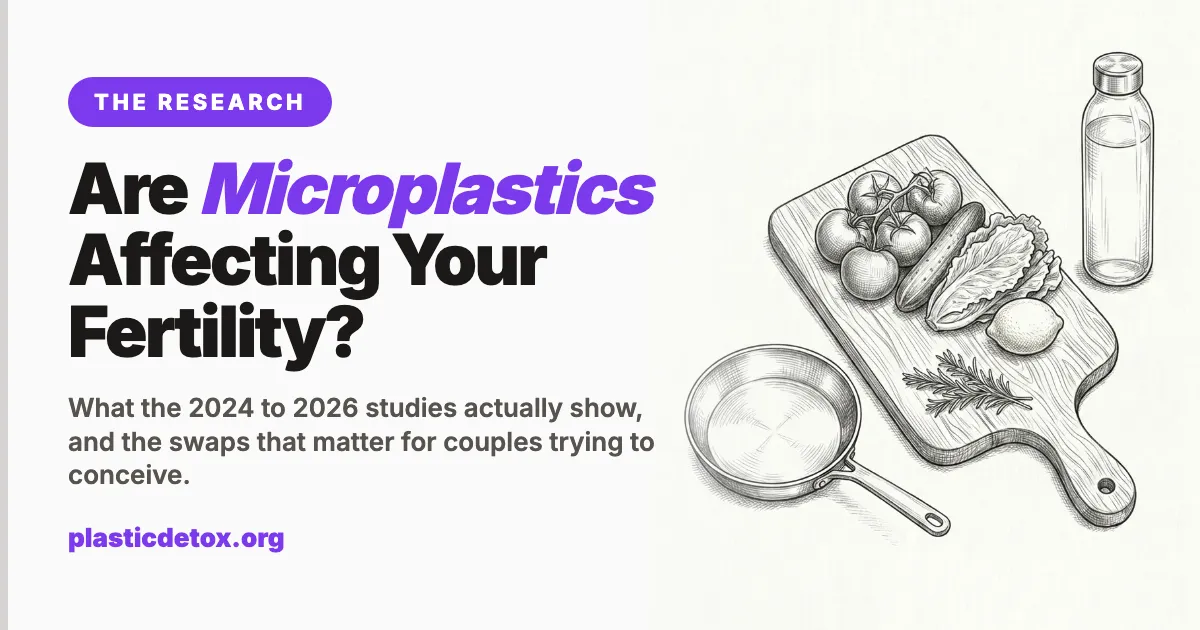
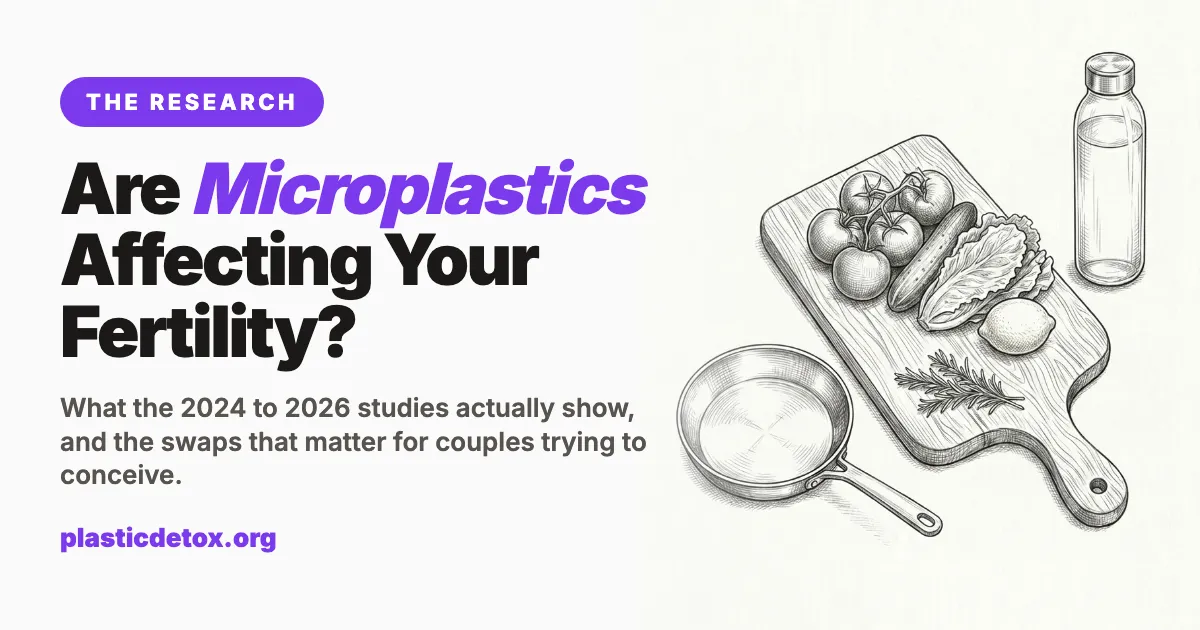
Reposition fertility hero: drop headline into clean top space, trim bottom, remove grey edge
The illustration was rendered behind the headline so the food overlapped the
type, and the crop left a grey sliver on the left. Push the illustration down
into the lower frame so the headline gets clear whitespace, crop the empty
bottom to keep 1080x1350, and render at the exact pin size (no body padding) so
no background bleeds in. Same fix applied to the social card.

Changed region(s): [[0.0, 0.0, 0.9867, 1.0]]

diff --git a/images/microplastics-and-fertility-article-hero.html b/images/microplastics-and-fertility-article-hero.html
@@ -12,7 +12,7 @@
       src: url(inter-latin.woff2) format('woff2');
     }
     * { margin: 0; padding: 0; box-sizing: border-box; }
-    body { background: #d6d3d1; display: flex; justify-content: center; padding: 2rem; font-family: 'Inter', -apple-system, sans-serif; }
+    body { background: #fafaf9; display: flex; justify-content: center; font-family: 'Inter', -apple-system, sans-serif; }
     .pin {
       width: 1080px;
       height: 1350px;
@@ -21,15 +21,17 @@
       background: #fafaf9;
     }
     .pin > img {
-      width: 100%;
-      height: 100%;
-      object-fit: cover;
+      position: absolute;
+      top: 170px;
+      left: 0;
+      width: 1080px;
+      height: auto;
       display: block;
     }
     .top-overlay {
       position: absolute;
       top: 0; left: 0; right: 0;
-      padding: 64px 50px 110px;
+      padding: 56px 50px 60px;
       background: linear-gradient(to bottom,
         rgba(250, 250, 249, 0.97) 0%,
         rgba(250, 250, 249, 0.90) 55%,

diff --git a/images/microplastics-and-fertility-social.html b/images/microplastics-and-fertility-social.html
@@ -12,7 +12,7 @@
       src: url(inter-latin.woff2) format('woff2');
     }
     * { margin: 0; padding: 0; box-sizing: border-box; }
-    body { background: #d6d3d1; display: flex; justify-content: center; padding: 2rem; font-family: 'Inter', -apple-system, sans-serif; }
+    body { background: #fafaf9; display: flex; justify-content: center; font-family: 'Inter', -apple-system, sans-serif; }
     .card {
       width: 1200px;
       height: 630px;
